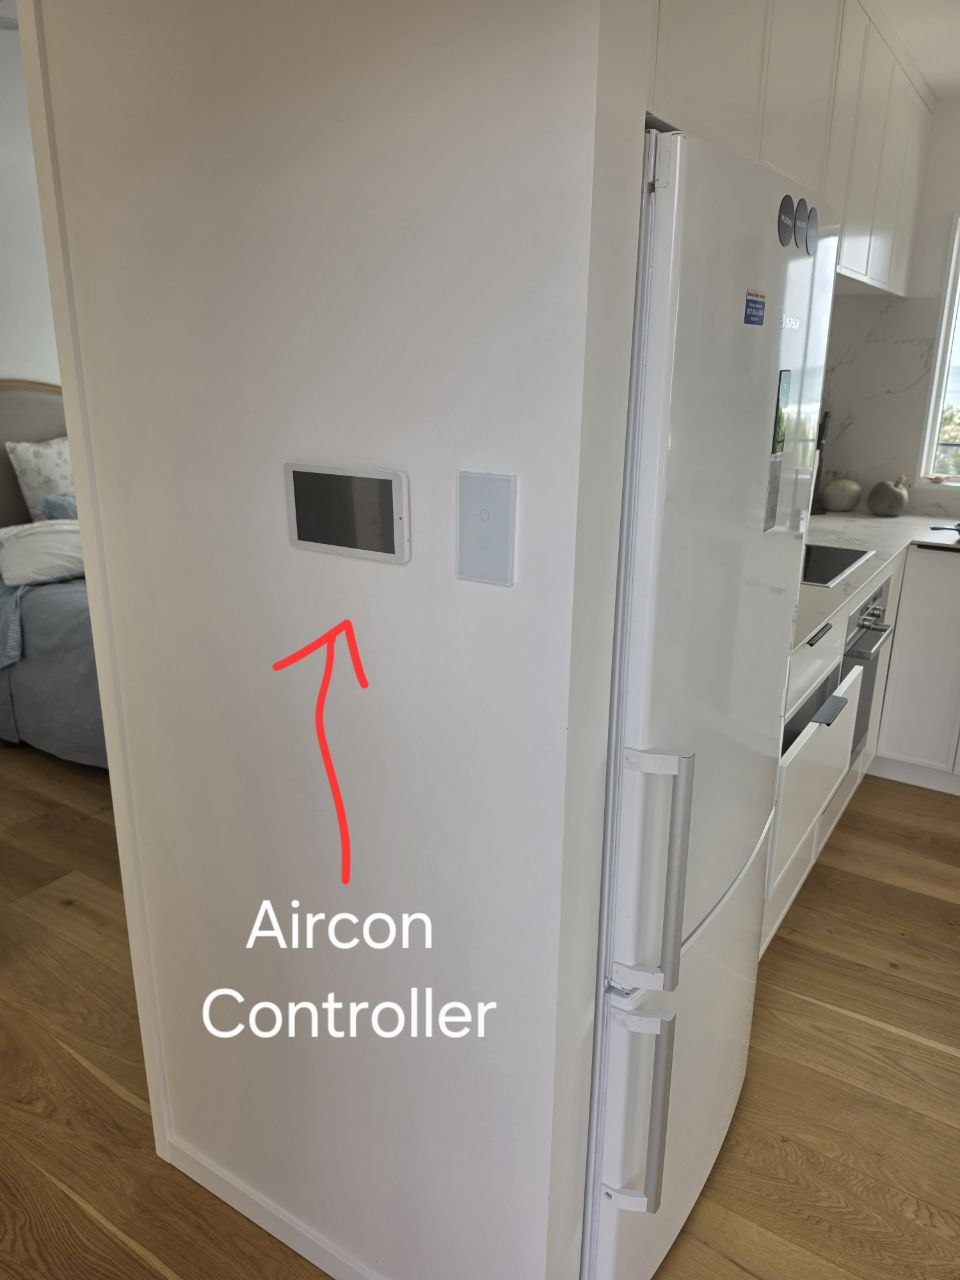
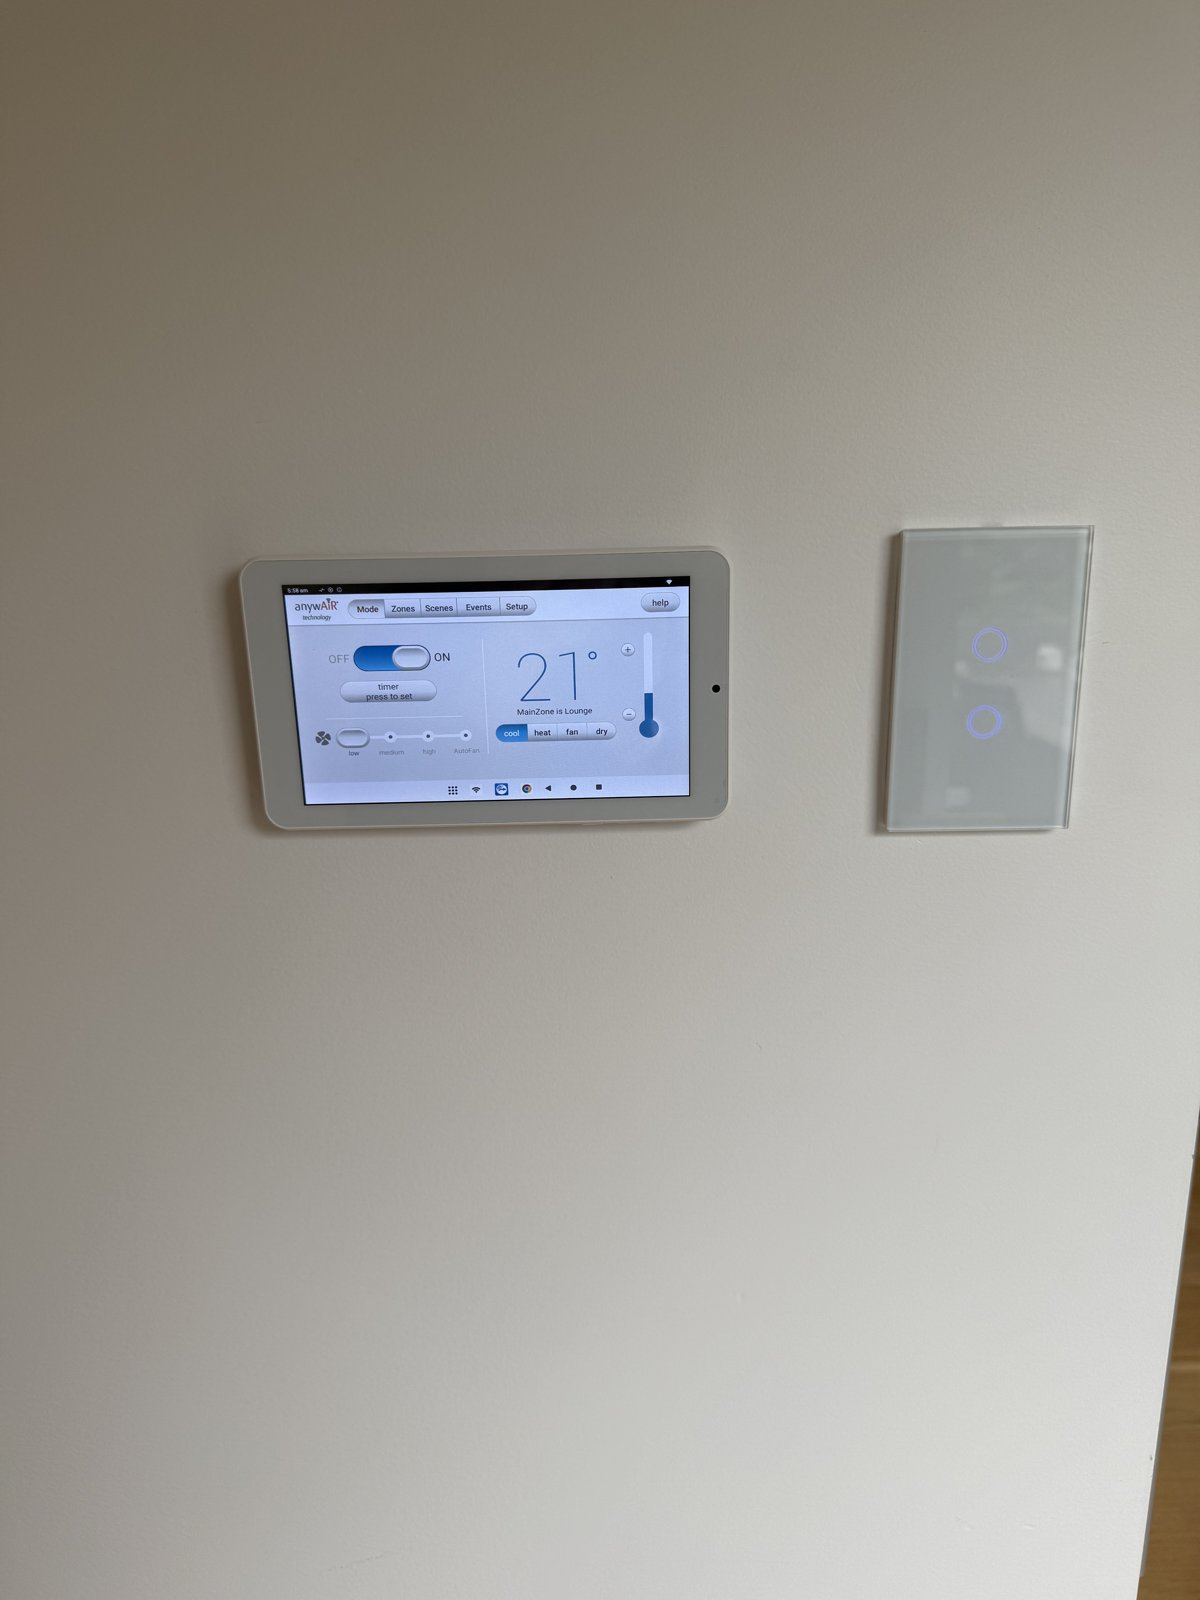
Add photos: spice drawer, fire extinguisher, aircon controller, coasters drawer

diff --git a/index.html b/index.html
@@ -533,6 +533,10 @@ body {
           <li>Please use coasters and placemats on the inside dining and coffee tables. Coasters and placemats are in the <strong>end drawer in the kitchen</strong>.</li>
           <li>Please be careful when drawing the seaward curtains. It's best to move all the fabric past the hooks before pulling them closed, otherwise they can get caught.</li>
         </ul>
+        <img class="instruction-img" src="images/spice-drawer.jpg" alt="Hidden spice drawer between fridge and oven" onclick="openLightbox(this)">
+        <p class="img-caption">Hidden herbs & spices drawer — between the fridge and oven</p>
+        <img class="instruction-img" src="images/coasters-drawer.jpg" alt="Coasters and placemats drawer" onclick="openLightbox(this)">
+        <p class="img-caption">Coasters & placemats — end drawer in the kitchen</p>
       </div>
       <div class="card">
         <h3>🚿 Water & Wastewater</h3>
@@ -718,6 +722,8 @@ body {
       <div class="card">
         <h3>🧯 Fire Extinguisher</h3>
         <p>The fire extinguisher is <strong>under the end of the kitchen bench, next to the robot vacuum cleaner</strong>.</p>
+        <img class="instruction-img" src="images/fire-extinguisher.jpg" alt="Fire extinguisher next to robot vacuum" onclick="openLightbox(this)">
+        <p class="img-caption">Fire extinguisher — next to the Roborock dock</p>
       </div>
       <a href="tel:111" class="emergency-btn">🚨 Call Emergency (111)</a>
     </div>
